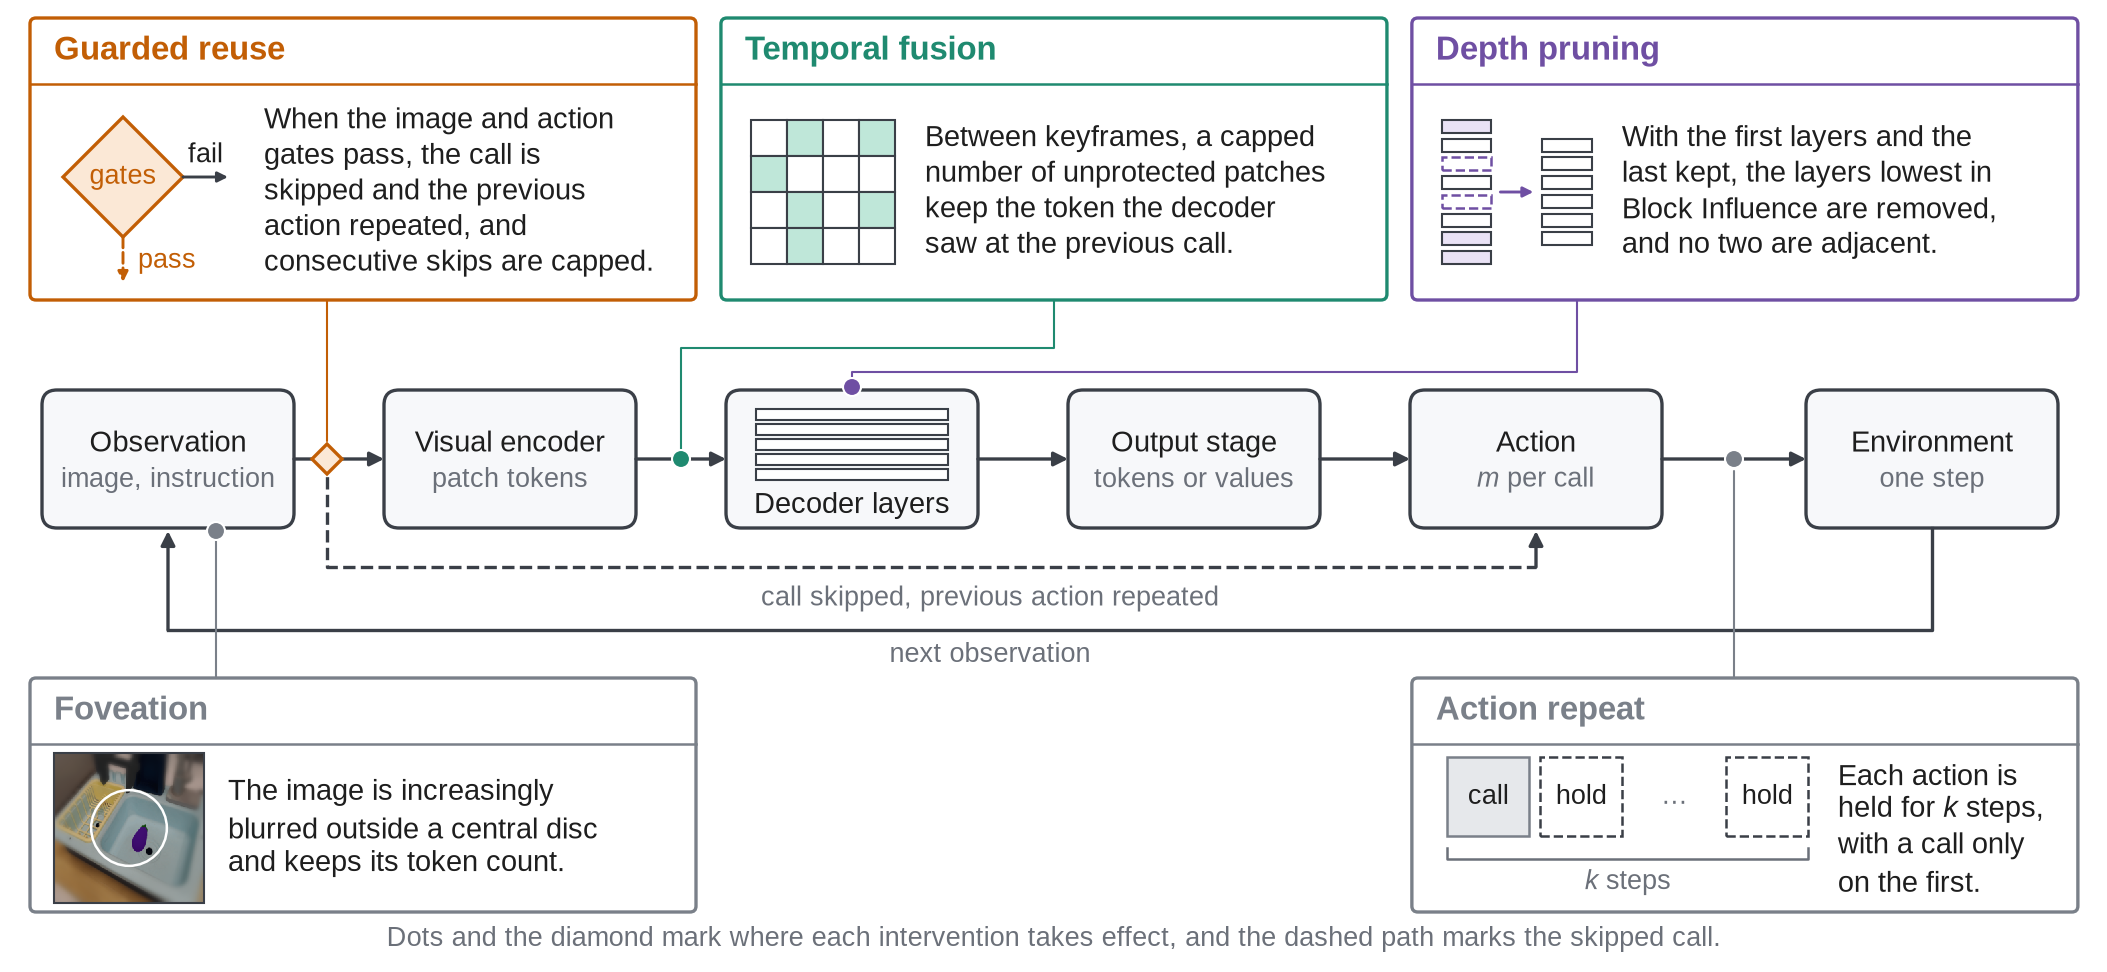
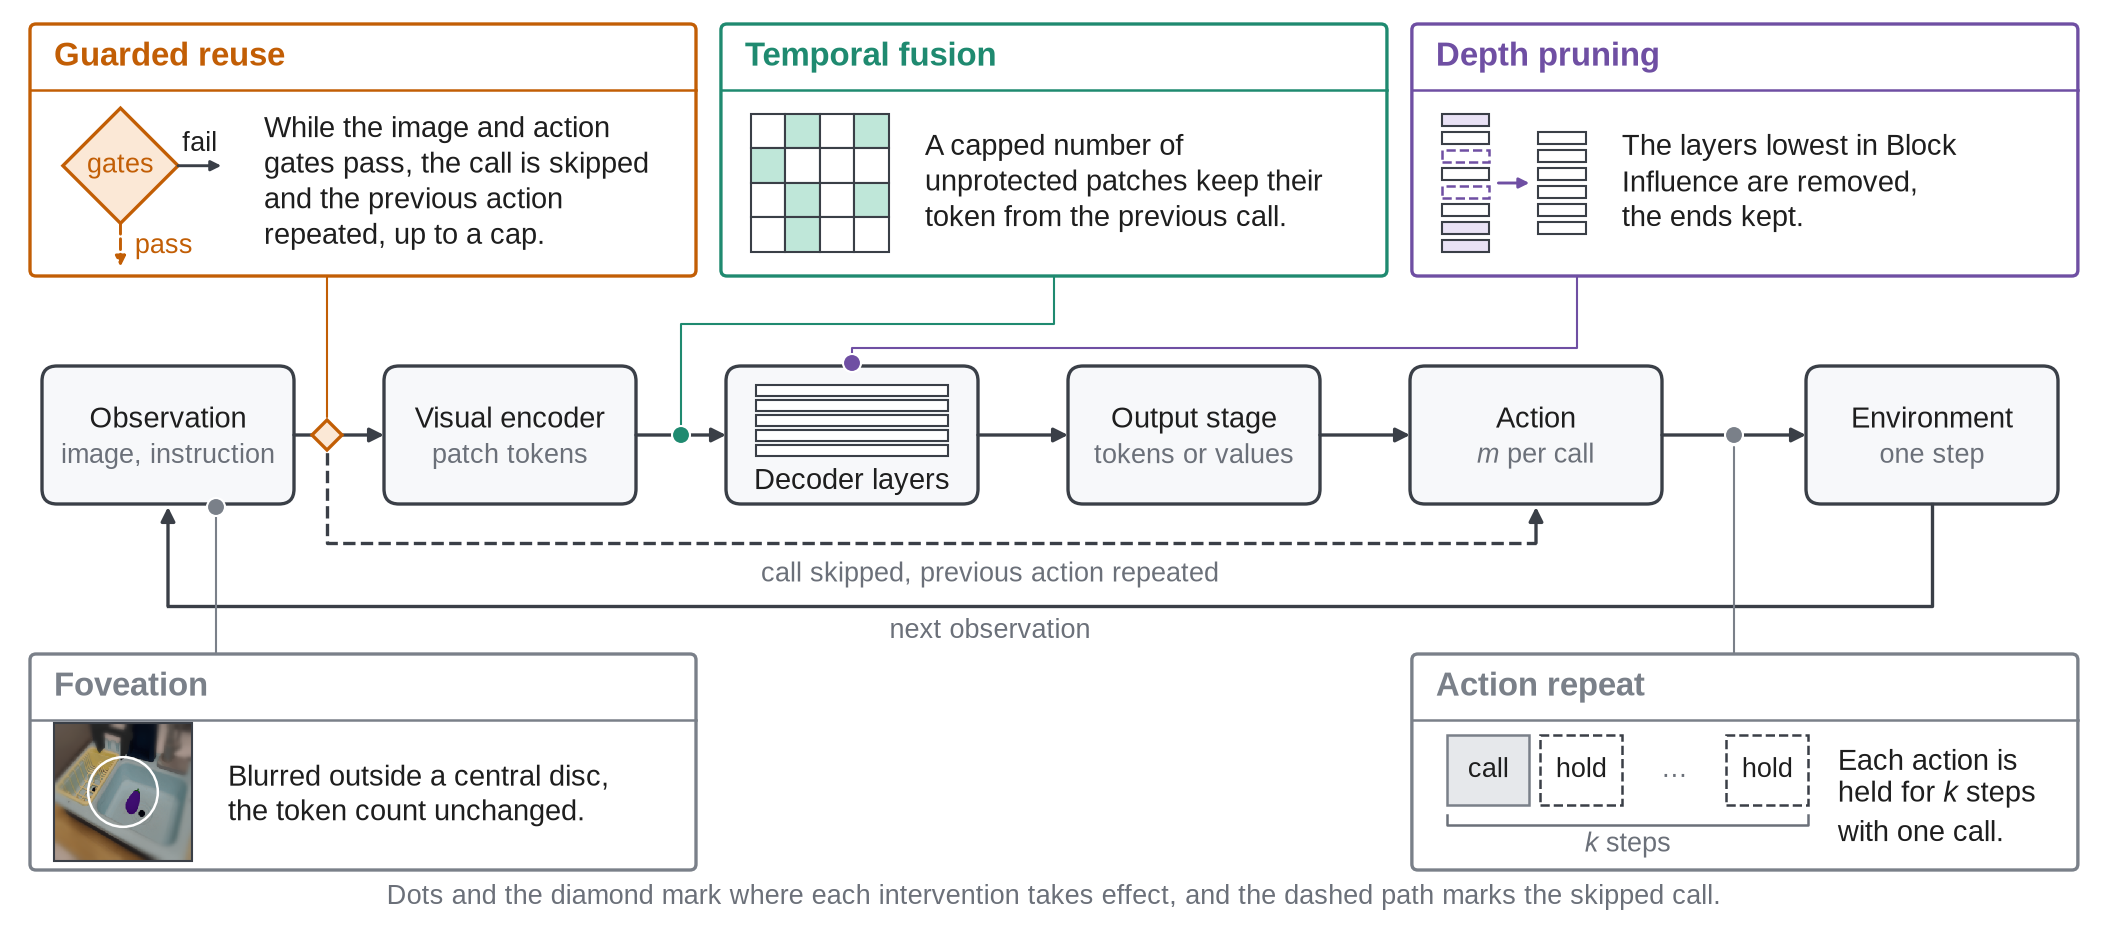
Overview A3: card sentences cut to the essentials, cards tightened, figure height 3.10 in
Claude-Session: https://claude.ai/code/session_011USoCwMtkSq1wKhwTPjNT9

diff --git a/experiments/paper/make_overview.py b/experiments/paper/make_overview.py
@@ -671,13 +671,13 @@ def icon_gate(ax, x, y, s, color, fs):
 
 
 def candidate_A3(verbose=True):
-    H = 3.24
+    H = 3.10
     fig, ax = canvas(H, W3)
     fit = []
     CR = C_REUSE3
     LIGHT[CR] = LIGHT[C_REUSE]
     # --- pipeline row (middle) ---
-    py, ph = 1.48, 0.46
+    py, ph = 1.42, 0.46
     bw = 0.84
     xs = {"obs": 0.14, "enc": 1.28, "dec": 2.42, "out": 3.56, "act": 4.70, "env": 6.02}
     mid = py + ph / 2
@@ -724,51 +724,51 @@ def candidate_A3(verbose=True):
         ax.plot(xs_, ys_, color=col, lw=0.5, ls="-", solid_capstyle="round", zorder=4)
 
     # --- candidates above, left to right in pipeline order ---
-    cy, ch, cw = 2.24, 0.94, 2.22
+    cy, ch, cw = 2.18, 0.84, 2.22
     gap = (W3 - 0.20 - 3 * cw) / 2
     bm = cy + (ch - 0.22) / 2
     # guarded reuse, its mark is the diamond on the observation edge
     x = 0.10
     body = card(x, cy, cw, ch, CR, "Guarded reuse")
-    for t in icon_gate(ax, x + 0.10, cy + 0.10, 0.50, CR, FS_SUB):
+    for t in icon_gate(ax, x + 0.10, cy + 0.07, 0.48, CR, FS_SUB):
         fit.append((t, body))
-    sentence(x + 0.78, bm, "When the image and action\ngates pass, the call is\nskipped and the previous\naction repeated, and\nconsecutive skips are capped.", body)
+    sentence(x + 0.78, bm, "While the image and action\ngates pass, the call is skipped\nand the previous action\nrepeated, up to a cap.", body)
     leader([(gx, cy), (gx, mid + d + 0.01)], CR)
     # temporal fusion, on the encoder-to-decoder edge
     x = 0.10 + cw + gap
     body = card(x, cy, cw, ch, C_FUSION, "Temporal fusion")
-    icon_fusion(ax, x + 0.10, cy + 0.12, 0.48, ring=False, reused={(0, 1), (0, 3), (1, 0), (2, 3), (3, 1), (2, 1)}, flagged=False)
-    sentence(x + 0.68, bm, "Between keyframes, a capped\nnumber of unprotected patches\nkeep the token the decoder\nsaw at the previous call.", body)
+    icon_fusion(ax, x + 0.10, cy + 0.08, 0.46, ring=False, reused={(0, 1), (0, 3), (1, 0), (2, 3), (3, 1), (2, 1)}, flagged=False)
+    sentence(x + 0.68, bm, "A capped number of\nunprotected patches keep their\ntoken from the previous call.", body)
     fx = xs["enc"] + bw + 0.15
     leader([(x + cw / 2, cy), (x + cw / 2, cy - 0.16), (fx, cy - 0.16), (fx, mid + 0.03)], C_FUSION)
     dot(fx, mid, C_FUSION)
     # depth pruning, on the decoder stack
     x = 0.10 + 2 * (cw + gap)
     body = card(x, cy, cw, ch, C_DEPTH, "Depth pruning")
-    icon_depth2(ax, x + 0.10, cy + 0.11, 0.50)
-    sentence(x + 0.70, bm, "With the first layers and the\nlast kept, the layers lowest in\nBlock Influence are removed,\nand no two are adjacent.", body)
+    icon_depth2(ax, x + 0.10, cy + 0.07, 0.48)
+    sentence(x + 0.70, bm, "The layers lowest in Block\nInfluence are removed,\nthe ends kept.", body)
     dx = xs["dec"] + bw / 2
     leader([(x + 0.55, cy), (x + 0.55, cy - 0.24), (dx, cy - 0.24), (dx, py + ph + 0.04)], C_DEPTH)
     dot(dx, py + ph + 0.01, C_DEPTH)
 
     # --- controls below, in the outer columns ---
-    ky, kh, kw = 0.20, 0.78, 2.22
+    ky, kh, kw = 0.20, 0.72, 2.22
     x = 0.10
     body = card(x, ky, kw, kh, C_CTRL, "Foveation")
     img, r_frac = foveation_real()
-    ts = 0.50
+    ts = 0.46
     ext = [x + 0.08, x + 0.08 + ts, ky + 0.03, ky + 0.03 + ts]
     ax.imshow(img, extent=ext, interpolation="none", zorder=3)
     ax.add_patch(Circle(((ext[0] + ext[1]) / 2, (ext[2] + ext[3]) / 2), ts * r_frac, fc="none", ec="white", lw=0.6, zorder=4))
     ax.add_patch(Rectangle((ext[0], ext[2]), ts, ts, fc="none", ec=PIPE_EDGE, lw=0.5, zorder=4))
-    sentence(x + 0.66, ky + (kh - 0.22) / 2, "The image is increasingly\nblurred outside a central disc\nand keeps its token count.", body)
+    sentence(x + 0.66, ky + (kh - 0.22) / 2, "Blurred outside a central disc,\nthe token count unchanged.", body)
     ox = xs["obs"] + bw / 2 + 0.16
     leader([(ox, ky + kh), (ox, py - 0.04)], C_CTRL)
     dot(ox, py - 0.01, C_CTRL)
     x = W3 - 0.10 - kw
     body = card(x, ky, kw, kh, C_CTRL, "Action repeat")
-    icon_repeat(ax, x + 0.10, ky + 0.06, 1.24, fs=FS_SUB, h=0.48, span="$k$ steps", labels=("call", "hold", "…", "hold"))
-    sentence(x + 1.42, ky + (kh - 0.22) / 2, "Each action is\nheld for $k$ steps,\nwith a call only\non the first.", body)
+    icon_repeat(ax, x + 0.10, ky + 0.05, 1.24, fs=FS_SUB, h=0.42, span="$k$ steps", labels=("call", "hold", "…", "hold"))
+    sentence(x + 1.42, ky + (kh - 0.22) / 2, "Each action is\nheld for $k$ steps\nwith one call.", body)
     rx = (xs["act"] + bw + xs["env"]) / 2
     leader([(rx, ky + kh), (rx, mid - 0.04)], C_CTRL)
     dot(rx, mid, C_CTRL)
